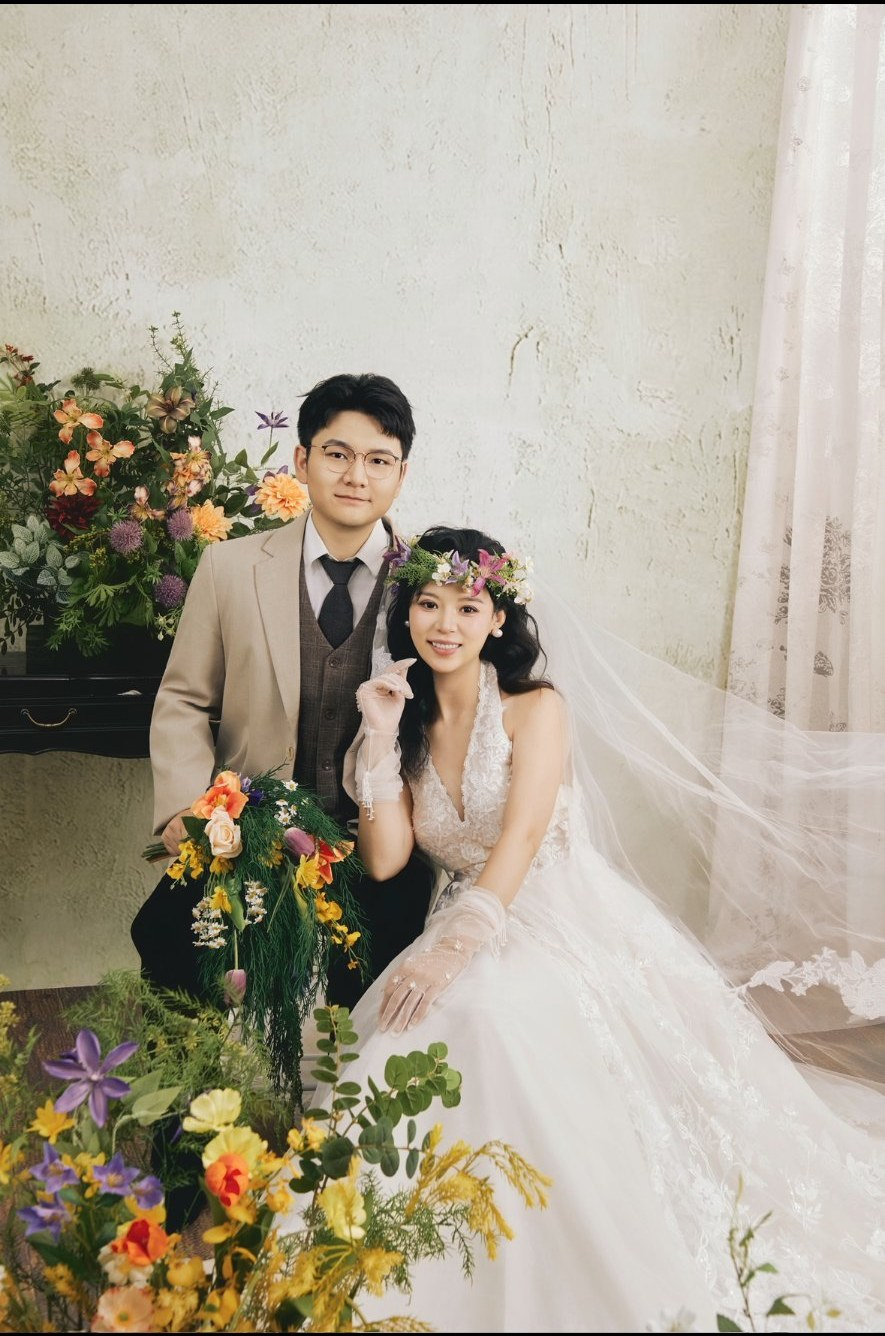
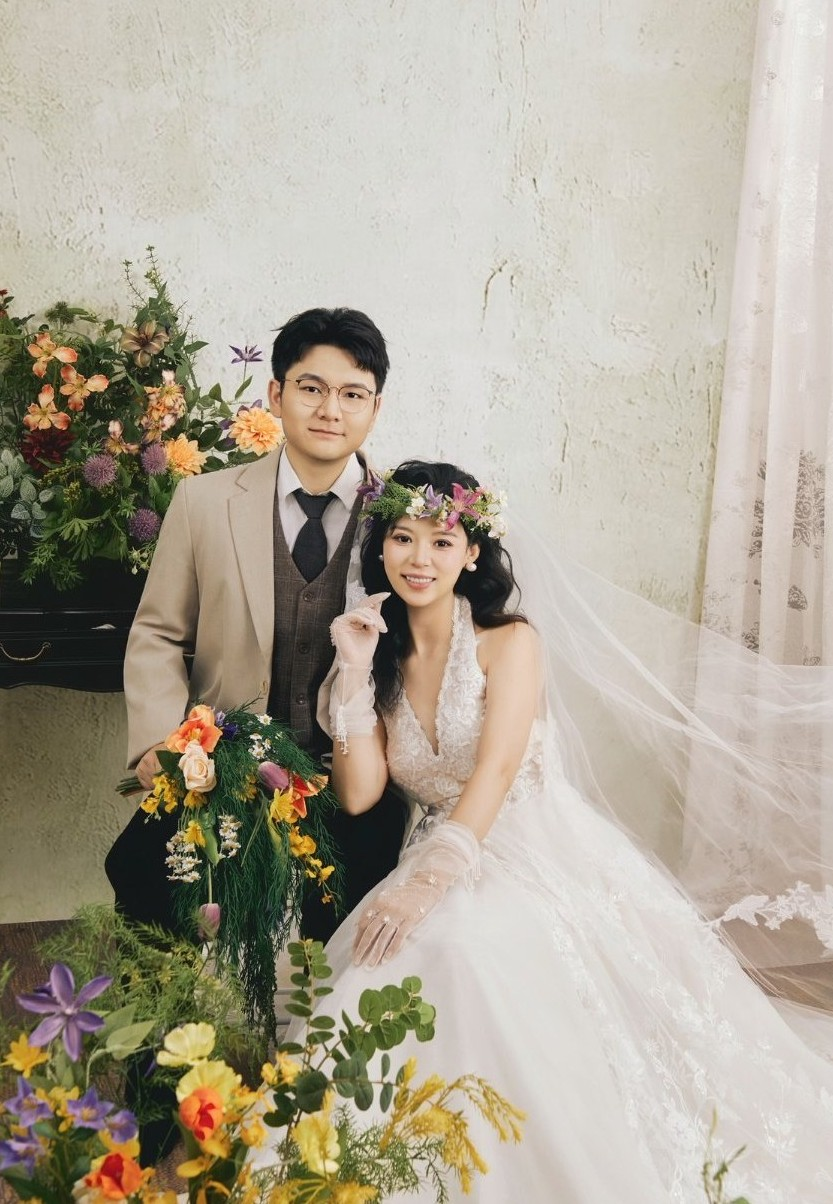
crop hero photo 5%/3%, bump hero.jpg?v=2

diff --git a/index.html b/index.html
@@ -17,7 +17,7 @@
       <h1 class="couple" id="coupleNames">XuYunan &amp; WuHao</h1>
       <p class="subtitle" id="subtitle">欢迎光临，请输入您的姓名查询座位</p>
       <div class="hero-photo">
-        <img src="./hero.jpg?v=1" alt="XuYunan &amp; WuHao 婚纱照" />
+        <img src="./hero.jpg?v=2" alt="XuYunan &amp; WuHao 婚纱照" />
         <span class="photo-deco photo-deco-tl"></span>
         <span class="photo-deco photo-deco-tr"></span>
         <span class="photo-deco photo-deco-bl"></span>
